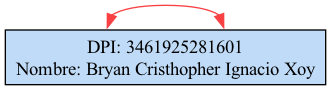
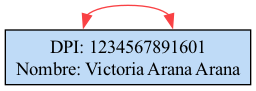
method modificar cliente ended.

diff --git a/main.py b/main.py
@@ -88,9 +88,25 @@ if __name__ == '__main__':
                     new_genero = str(input(">Ingresa el Genero: "))
                     new_telefono = str(input(">Ingresa el Telefono: "))
                     new_direccion = str(input(">Ingresa la Direccion: "))
-                    lista_clientes.insertar_inicio(Cliente(new_dpi, new_nombres, new_apellidos, new_genero, new_telefono, new_direccion))
+                    lista_clientes.insertar_inicio(
+                        Cliente(new_dpi, new_nombres, new_apellidos, new_genero, new_telefono, new_direccion))
                 if option_clientes == 2:
                     print("Modificar Cliente")
+                    in_dpi = str(input(">Ingresa el DPI a buscar: "))
+                    if lista_clientes.buscar_node_cliente(in_dpi) is not None:
+                        node_cliente = lista_clientes.buscar_node_cliente(in_dpi)
+                        print(node_cliente.get_cliente())
+                        print("Ingresa la Nueva Inforamcion del Cliente")
+                        new_dpi = str(input(">Ingresa el DPI: "))
+                        new_nombres = str(input(">Ingresa los Nombres: "))
+                        new_apellidos = str(input(">Ingresa los Apellidos: "))
+                        new_genero = str(input(">Ingresa el Genero: "))
+                        new_telefono = str(input(">Ingresa el Telefono: "))
+                        new_direccion = str(input(">Ingrese la Direccion:"))
+                        lista_clientes.modificar_node_cliente(in_dpi, new_dpi, new_nombres, new_apellidos, new_genero,
+                                                              new_telefono, new_direccion)
+                    else:
+                        print("No se pudo modificar, No existe Cliente")
                 if option_clientes == 3:
                     print("Eliminar Cliente")
                 if option_clientes == 4:

diff --git a/ListaClientes.py b/ListaClientes.py
@@ -70,7 +70,7 @@ class ListaClientes:
             while True:
                 node_cliente = actual.get_cliente()
                 if node_cliente.get_dpi() == dpi_cliente:
-                    print("se encontro el cliente", node_cliente.get_dpi())
+                    # print("se encontro el cliente", node_cliente.get_dpi())
                     return actual
                 actual = actual.get_siguiente()
                 if actual == self.__primero:
